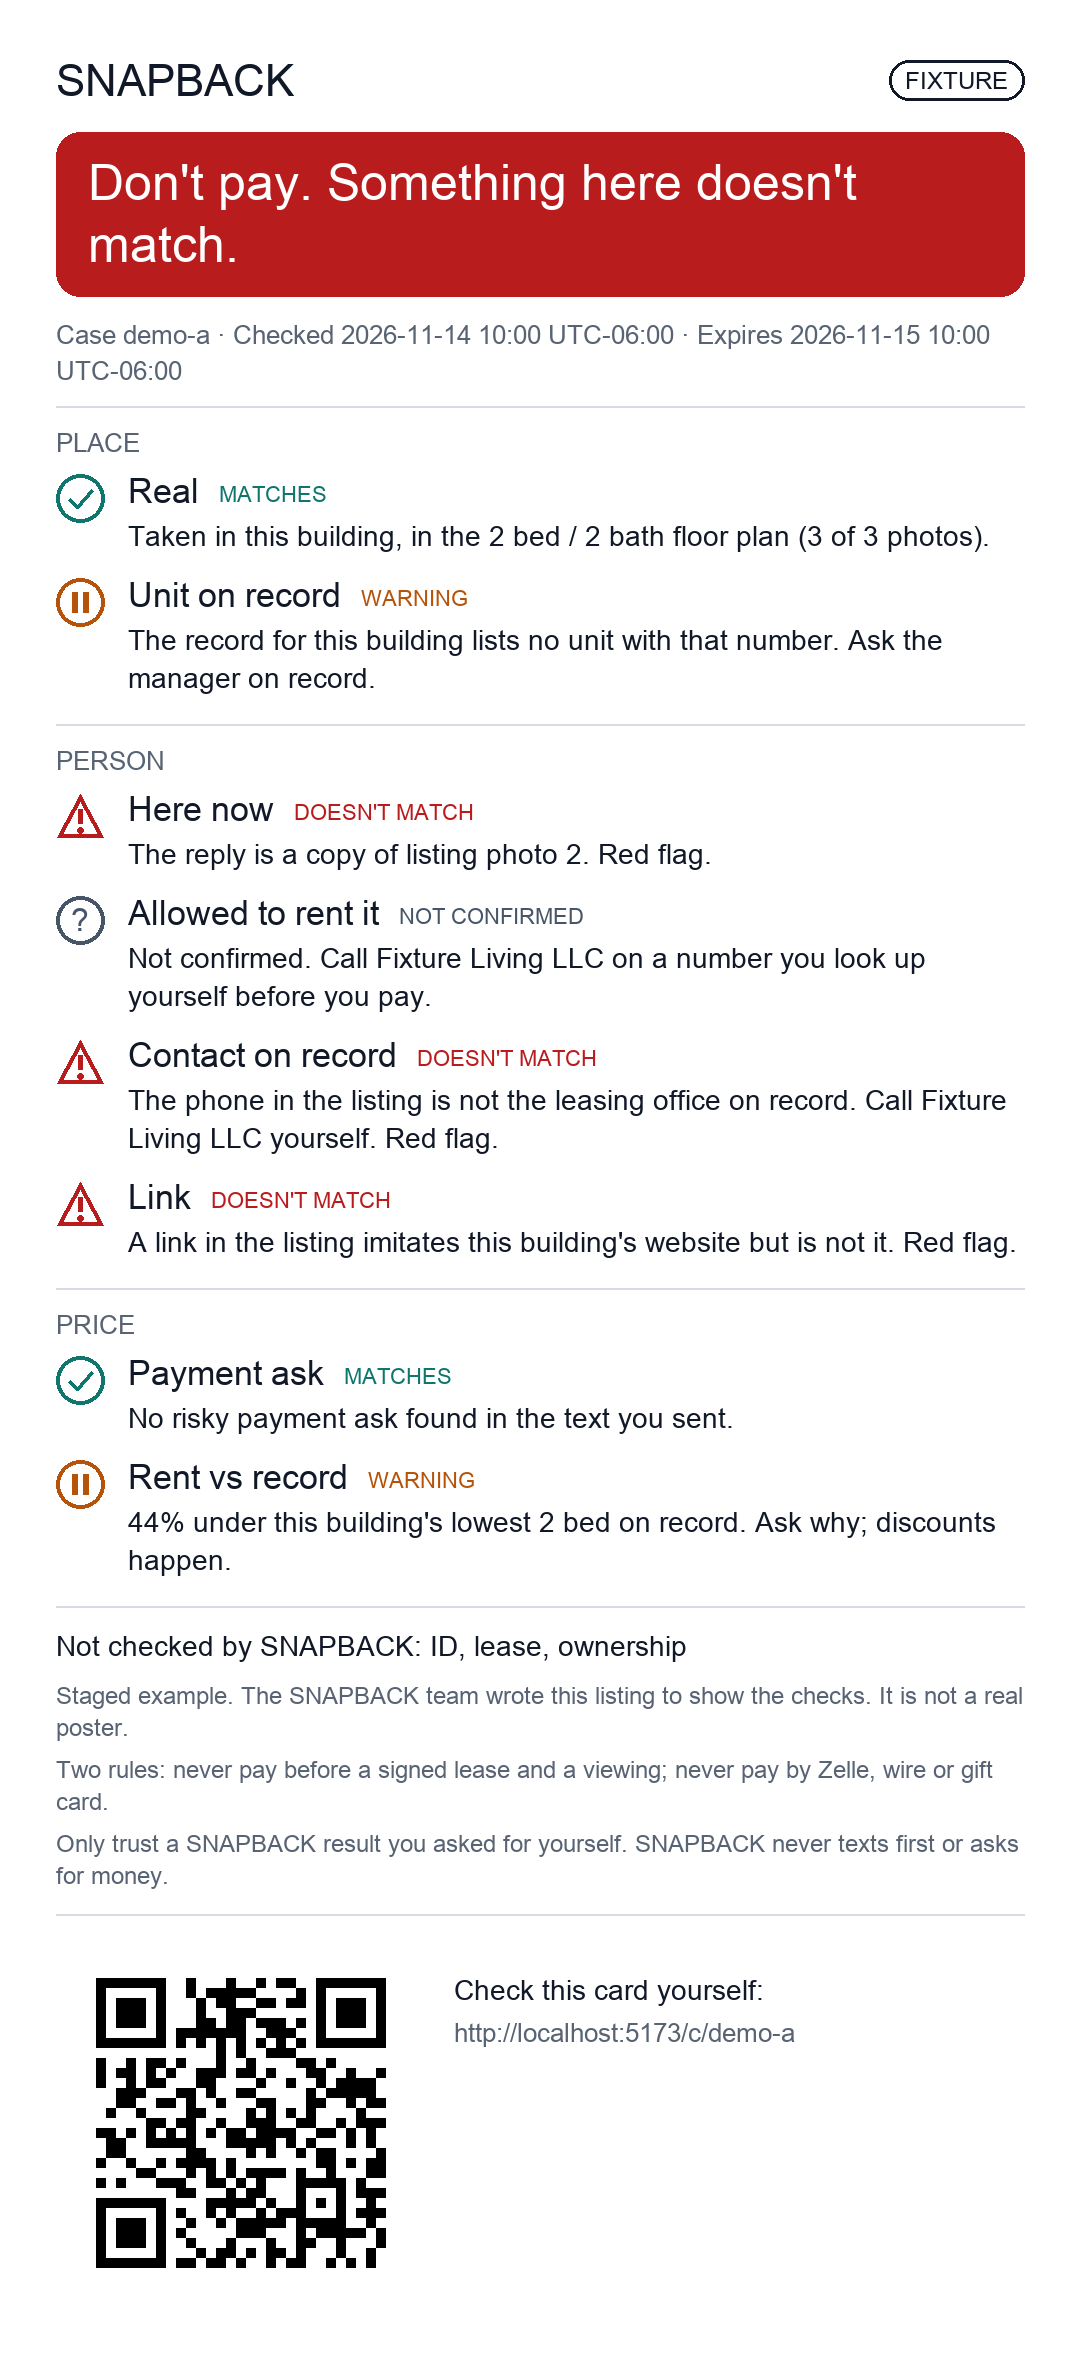
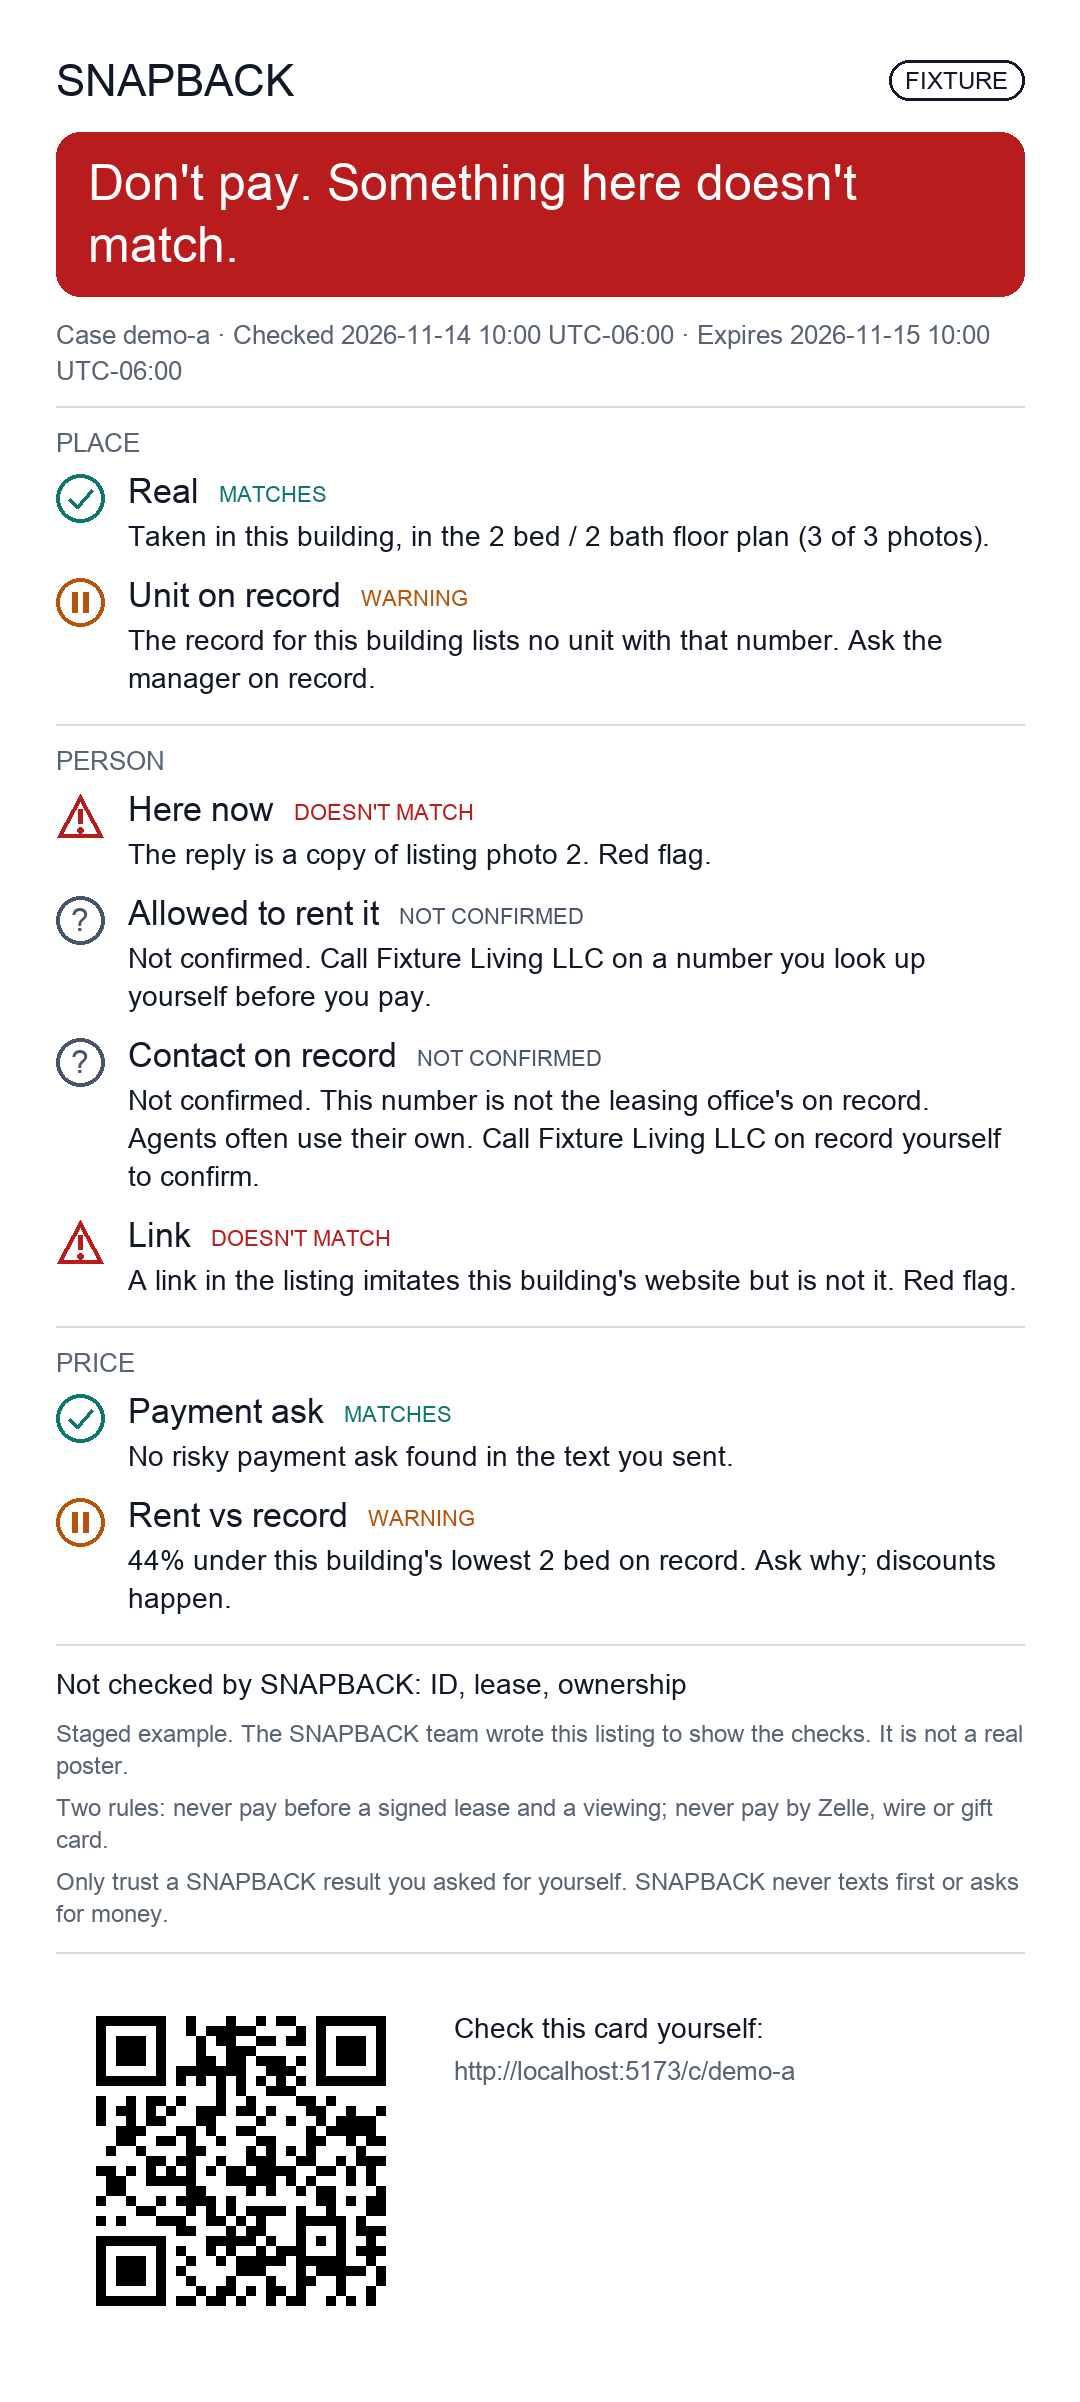
A17 (F1): a phone that is not the office's reads Not confirmed, never a red flag
Conductor ruling, Sat 02:10 (#121). A licensed locator or listing agent posting with their
own number is normal and legal.
- The line is Not confirmed: 'This number is not the leasing office's on record. Agents often
  use their own. Call {manager} on record yourself to confirm.' English and Spanish.
- It is no longer among the red flags. It still holds a case: the card cannot say 'Checks
  passed' while the contact is unconfirmed.
- The lookalike link stays a red flag. A phone match alone still never verifies. DON'T PAY
  still needs proof.
- A '# D10:' note marks where an unlicensed poster turns the mismatch back into a red flag.
- The web's fallback line and its tests mirror the wording and the tone. The staged cards
  a and b are redrawn.

diff --git a/apps/web/src/pages/CardProofs.test.tsx b/apps/web/src/pages/CardProofs.test.tsx
@@ -90,7 +90,7 @@ describe("place, person and price proof lines", () => {
     [
       "phone differs",
       authority({ office_phone_match: "no" }),
-      "The phone in the listing is not the leasing office on record",
+      "This number is not the leasing office's on record. Agents often use their own",
     ],
     [
       "phone matches",
@@ -186,13 +186,14 @@ describe("place, person and price proof lines", () => {
         }}
       />,
     );
-    for (const re of [
-      /listed for sale on Homes\.com/,
-      /phone in the listing is not/,
-      /looks like the building/,
-    ]) {
+    for (const re of [/listed for sale on Homes\.com/, /looks like the building/]) {
       expect(screen.getByText(re).closest("tr")).toHaveTextContent("Doesn't match");
     }
+    // A phone that is not the office's is Not confirmed, never a mismatch (#121): agents and
+    // locators often post with their own number.
+    const phone = screen.getByText(/number is not the leasing office's on record/).closest("tr");
+    expect(phone).toHaveTextContent("Not confirmed");
+    expect(phone).not.toHaveTextContent("Doesn't match");
     expect(screen.getAllByText("Rent vs record")).toHaveLength(1);
   });
 

diff --git a/apps/web/src/cardStrings.ts b/apps/web/src/cardStrings.ts
@@ -95,9 +95,15 @@ function personLines(p: CardProofs): CardLine[] {
   if (!a) return [];
   const out: CardLine[] = [];
   const phone = "Phone in listing";
+  // Not a red flag (ruling, Sat 02:10, #121): agents and locators often post with their own
+  // number. Mirrors contact.phone_mismatch in strings.py; "Next step" below says who to call.
   if (a.office_phone_match === "no")
     out.push(
-      line(phone, "The phone in the listing is not the leasing office on record.", "red_flag"),
+      line(
+        phone,
+        "This number is not the leasing office's on record. Agents often use their own.",
+        "not_shown",
+      ),
     );
   else if (a.office_phone_match === "yes")
     out.push(line(phone, "The phone in the listing is the leasing office on record.", "ok"));

diff --git a/src/snapback/verdict.py b/src/snapback/verdict.py
@@ -154,8 +154,9 @@ def decide(evidence: Evidence, lang: str = strings.DEFAULT_LANG) -> Verdict:
     3. Presence proven, authority matching the record and no red flag of any kind gives
        VERIFIED.
     4. Everything else is HOLD: no reply yet, present but not on the record, or any red flag
-       (price, payment, fee, data ask, pressure, link, overpayment, for sale, phone,
-       lookalike link, unit).
+       (price, payment, fee, data ask, pressure, link, overpayment, for sale, lookalike
+       link, unit), or a phone that is not the leasing office's (not a red flag, but not
+       confirmed either).
 
     Two things hold nothing by themselves (ruling, Sat 01:20): a name that is not the one on
     record reads "not confirmed", and "recently rented" is information, since lease status
@@ -183,12 +184,18 @@ def decide(evidence: Evidence, lang: str = strings.DEFAULT_LANG) -> Verdict:
         say(key)
         for key, raised in (
             ("reason.for_sale", evidence.for_sale_flag),
-            ("reason.phone_flag", evidence.phone_flag),
             ("reason.lookalike_link", evidence.lookalike_link_flag),
             ("reason.unit_flag", evidence.unit_flag),
         )
         if raised
     ]
+    # A phone that is not the leasing office's is not a red flag (ruling, Sat 02:10, #121):
+    # a licensed locator or listing agent posting with their own number is normal. It still
+    # holds a case, because the card cannot say "Checks passed" while the contact is
+    # unconfirmed, and it is still said whatever the state turns out to be.
+    # D10: when the licence check finds the poster is NOT licensed, a phone mismatch is a red
+    # flag again. That plugs in here (A18, #124).
+    unconfirmed = [say("reason.phone_flag")] if evidence.phone_flag else []
 
     if LocateStatus.LOCATED_IN_CLAIMED not in statuses:
         unplaced = say(
@@ -200,8 +207,8 @@ def decide(evidence: Evidence, lang: str = strings.DEFAULT_LANG) -> Verdict:
             # the wrong thing to lead with. Still HOLD, never DONT_PAY: it is not proof.
             for_sale = say("reason.for_sale")
             others = [reason for reason in on_record if reason != for_sale]
-            return verdict(VerdictState.HOLD, for_sale, unplaced, *others)
-        return verdict(VerdictState.UNVERIFIED, unplaced, *on_record)
+            return verdict(VerdictState.HOLD, for_sale, unplaced, *others, *unconfirmed)
+        return verdict(VerdictState.UNVERIFIED, unplaced, *on_record, *unconfirmed)
 
     red_flags = []
     if evidence.price_flag:
@@ -216,6 +223,7 @@ def decide(evidence: Evidence, lang: str = strings.DEFAULT_LANG) -> Verdict:
         evidence.presence is PresenceStatus.PROVEN
         and evidence.authority is AuthorityStatus.MATCHES_RECORD
         and not red_flags
+        and not unconfirmed
     ):
         return verdict(
             VerdictState.VERIFIED,
@@ -235,7 +243,7 @@ def decide(evidence: Evidence, lang: str = strings.DEFAULT_LANG) -> Verdict:
         reasons.append(say("reason.presence_proven_not_authority"))
     else:
         reasons.append(say("reason.presence_missing"))
-    return verdict(VerdictState.HOLD, *reasons, *red_flags)
+    return verdict(VerdictState.HOLD, *reasons, *red_flags, *unconfirmed)
 
 
 # --- the card ----------------------------------------------------------------------------------
@@ -439,20 +447,23 @@ def _contact_lines(modules: ModuleEvidence, lang: str) -> list[CardLine]:
         # Supporting only: the number is public, so this is not who the poster is.
         lines.append(_line(lang, "label.contact", CardTone.OK, "contact.phone_match"))
     elif authority.office_phone_match is PhoneMatch.NO:
-        # The poster's own contact is not the one on record: a real red flag.
+        # Not confirmed, never a red flag by itself (ruling, Sat 02:10, #121): agents and
+        # locators often post with their own number.
+        # D10: with a licence check that finds the poster is NOT licensed, this line goes
+        # back to RED_FLAG (A18, #124).
         if authority.manager_on_record:
             lines.append(
                 _line(
                     lang,
                     "label.contact",
-                    CardTone.RED_FLAG,
+                    CardTone.NOT_SHOWN,
                     "contact.phone_mismatch",
                     manager=authority.manager_on_record,
                 )
             )
         else:
             lines.append(
-                _line(lang, "label.contact", CardTone.RED_FLAG, "contact.phone_mismatch_unnamed")
+                _line(lang, "label.contact", CardTone.NOT_SHOWN, "contact.phone_mismatch_unnamed")
             )
     if authority.link_domain is LinkDomain.LOOKALIKE:
         lines.append(_line(lang, "label.link", CardTone.RED_FLAG, "contact.lookalike_link"))

diff --git a/tests/test_contact_on_record.py b/tests/test_contact_on_record.py
@@ -115,18 +115,54 @@ def test_a_phone_that_is_not_the_office_holds_the_case_even_if_the_name_matches(
     assert to_evidence(modules).phone_flag is True
     assert state(modules) is VerdictState.HOLD
 
-    # Ruling, Sat 01:20: the poster's own contact not matching the record is a real red flag.
+    # Ruling, Sat 02:10 (#121): a number that is not the office's reads Not confirmed. A
+    # licensed locator or listing agent posting with their own number is normal and legal.
     tone, text = card_lines(modules, CardRowKind.PERSON)["Contact on record"]
-    assert tone is CardTone.RED_FLAG
+    assert tone is CardTone.NOT_SHOWN
     assert text == (
-        "The phone in the listing is not the leasing office on record. "
-        "Call Fixture Living LLC yourself. Red flag."
+        "Not confirmed. This number is not the leasing office's on record. "
+        "Agents often use their own. Call Fixture Living LLC on record yourself to confirm."
     )
     unnamed = check_authority(ContactClaims(phones=[OTHER]), record(manager_company=None), SALT)
     _, said = card_lines(evidence(authority=unnamed.model_dump(mode="json")), CardRowKind.PERSON)[
         "Contact on record"
     ]
-    assert said.endswith("Call the office on record yourself. Red flag.")
+    assert said == (
+        "Not confirmed. This number is not the leasing office's on record. "
+        "Agents often use their own. Call the office on record yourself to confirm."
+    )
+
+
+def test_a_phone_mismatch_alone_holds_the_case_and_puts_no_red_flag_anywhere_on_the_card():
+    # Everything else is in order: presence proven, the company named is the manager on
+    # record, nothing flagged. Only the phone differs.
+    claims = ContactClaims(company="Fixture Living LLC", phones=[OTHER])
+    authority = check_authority(claims, record(), SALT)
+    assert authority.office_phone_match is PhoneMatch.NO
+    modules = evidence(authority=authority.model_dump(mode="json"), rules=[], price=None)
+
+    verdict = decide(to_evidence(modules))
+    # It still holds: the card cannot say "Checks passed" while the contact is unconfirmed.
+    assert verdict.state is VerdictState.HOLD
+    assert strings.text("reason.phone_flag") in verdict.reasons
+
+    card = build_card(modules, checked_at=CHECKED_AT)
+    tones = [item.tone for row in card.rows for item in row.lines]
+    assert CardTone.RED_FLAG not in tones
+    assert not any("Red flag" in item.text for row in card.rows for item in row.lines)
+    # And without the mismatch the same case passes, so the phone is what holds it.
+    passing = check_authority(ContactClaims(company="Fixture Living LLC"), record(), SALT)
+    assert state(evidence(authority=passing.model_dump(mode="json"), rules=[], price=None)) is (
+        VerdictState.VERIFIED
+    )
+
+
+def test_a_lookalike_link_is_still_a_red_flag_beside_an_unconfirmed_phone():
+    claims = ContactClaims(phones=[OTHER], links=["fixtureliving-apply.example"])
+    authority = check_authority(claims, record(), SALT)
+    person = card_lines(evidence(authority=authority.model_dump(mode="json")), CardRowKind.PERSON)
+    assert person["Contact on record"][0] is CardTone.NOT_SHOWN
+    assert person["Link"][0] is CardTone.RED_FLAG
 
 
 def test_a_matching_phone_is_a_supporting_line_and_never_authority():
@@ -671,7 +707,7 @@ def test_a_dressed_up_listing_is_held_with_each_reason_named_and_nothing_leaked(
     lines = {item.label: item for row in card.rows for item in row.lines}
     assert lines["For sale"].tone is CardTone.RED_FLAG
     assert lines["Link"].tone is CardTone.RED_FLAG
-    assert lines["Contact on record"].tone is CardTone.RED_FLAG
+    assert lines["Contact on record"].tone is CardTone.NOT_SHOWN
     assert lines["Unit on record"].tone is CardTone.HOLD
     assert lines["Rent vs record"].tone is CardTone.HOLD
 

diff --git a/src/snapback/card/strings.py b/src/snapback/card/strings.py
@@ -89,14 +89,15 @@ EN: dict[str, str] = {
     "contact.phone_match": (
         "The phone matches the leasing office on record. Call it yourself to confirm."
     ),
-    # The poster's own contact not matching the record is a real red flag (ruling, Sat 01:20).
+    # Not a red flag (ruling, Sat 02:10, #121): agents and locators often post with their own
+    # number. The line is Not confirmed, and it says who to call.
     "contact.phone_mismatch": (
-        "The phone in the listing is not the leasing office on record. "
-        "Call {manager} yourself. Red flag."
+        "Not confirmed. This number is not the leasing office's on record. "
+        "Agents often use their own. Call {manager} on record yourself to confirm."
     ),
     "contact.phone_mismatch_unnamed": (
-        "The phone in the listing is not the leasing office on record. "
-        "Call the office on record yourself. Red flag."
+        "Not confirmed. This number is not the leasing office's on record. "
+        "Agents often use their own. Call the office on record yourself to confirm."
     ),
     "contact.lookalike_link": (
         "A link in the listing imitates this building's website but is not it. Red flag."
@@ -346,12 +347,14 @@ ES: dict[str, str] = {
         "Llame usted mismo para confirmarlo."
     ),
     "contact.phone_mismatch": (
-        "El teléfono del anuncio no es el de la oficina de alquiler que figura en el registro. "
-        "Llame usted mismo a {manager}. Señal de alerta."
+        "Sin confirmar. Este número no es el de la oficina de alquiler que figura en el "
+        "registro. Los agentes suelen usar el suyo. Llame usted mismo a {manager}, que figura "
+        "en el registro, para confirmarlo."
     ),
     "contact.phone_mismatch_unnamed": (
-        "El teléfono del anuncio no es el de la oficina de alquiler que figura en el registro. "
-        "Llame usted mismo a la oficina que figura en el registro. Señal de alerta."
+        "Sin confirmar. Este número no es el de la oficina de alquiler que figura en el "
+        "registro. Los agentes suelen usar el suyo. Llame usted mismo a la oficina que figura "
+        "en el registro para confirmarlo."
     ),
     "contact.lookalike_link": (
         "Un enlace del anuncio imita el sitio web de este edificio, pero no lo es. Señal de alerta."

diff --git a/tests/test_demo_cases.py b/tests/test_demo_cases.py
@@ -124,8 +124,8 @@ def test_case_a_is_dont_pay_on_the_copied_reply_and_shows_every_other_finding():
         strings.text("here_now.forged_copy", n=2),
     )
     assert person["Allowed to rent it"][0] is CardTone.NOT_SHOWN
-    # The poster's own contact not matching the record is a red flag (ruling, Sat 01:20).
-    assert person["Contact on record"][0] is CardTone.RED_FLAG
+    # A number that is not the office's reads Not confirmed (ruling, Sat 02:10, #121).
+    assert person["Contact on record"][0] is CardTone.NOT_SHOWN
     assert person["Link"][0] is CardTone.RED_FLAG
     assert price["Rent vs record"] == (
         CardTone.HOLD,

diff --git a/tests/test_live_join.py b/tests/test_live_join.py
@@ -460,7 +460,7 @@ def test_a_live_case_still_runs_the_record_rules_and_the_whole_card_is_live(tmp_
     card = live_card(tmp_path, record, form, for_sale=ForSaleMatch(status="active"))
     said = said_on(card)
     assert said["For sale"]["tone"] == "red_flag"
-    assert said["Contact on record"]["tone"] == "red_flag"
+    assert said["Contact on record"]["tone"] == "not_shown"
     assert said["Link"]["tone"] == "red_flag"
     assert said["Unit on record"]["tone"] == "hold"
     assert said["Rent vs record"]["tone"] == "hold"
